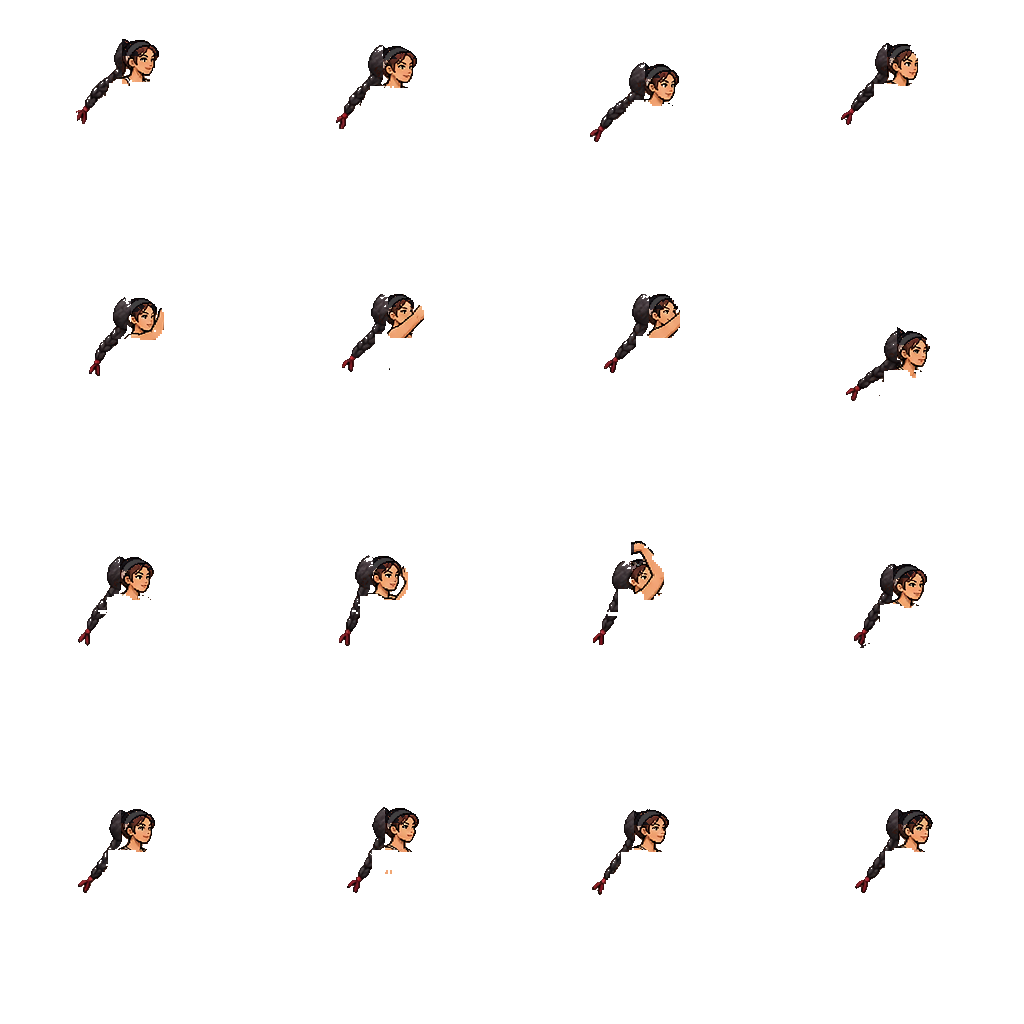
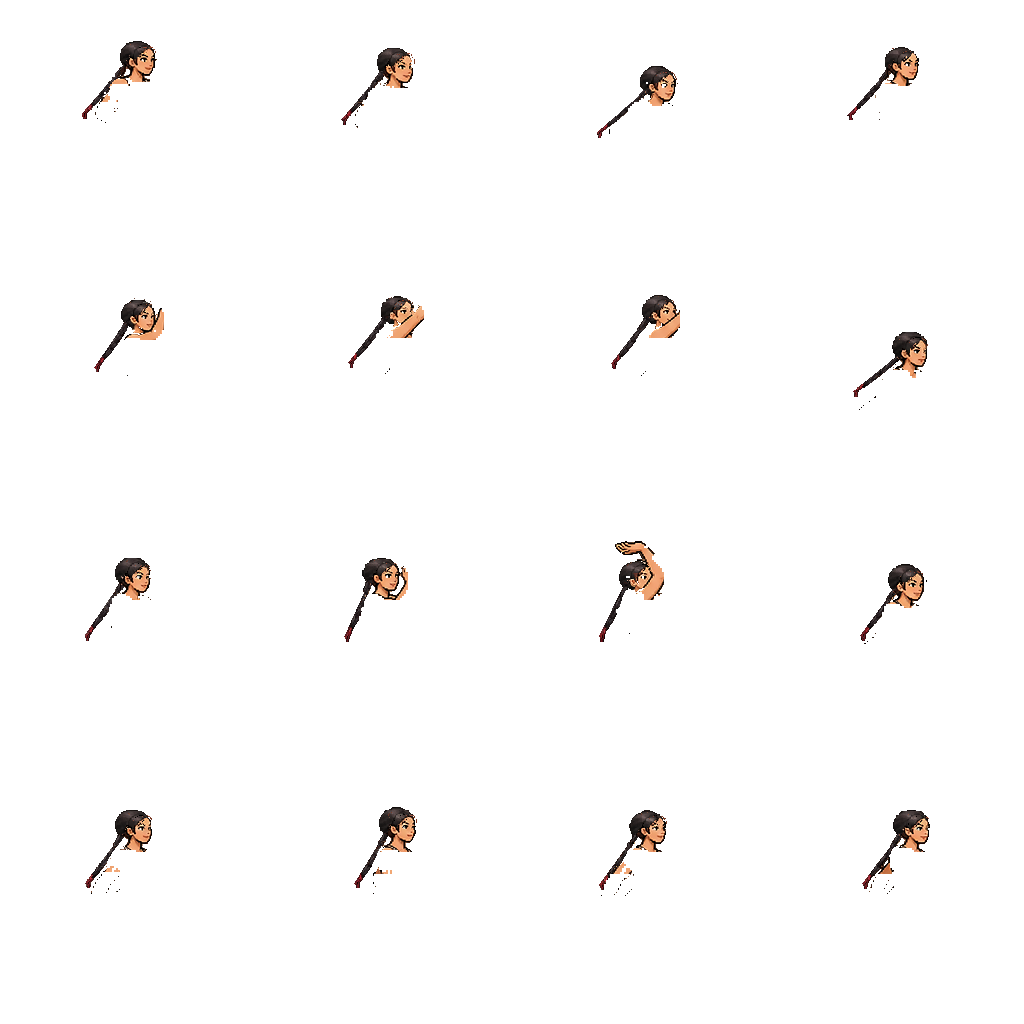
메이의 땋은 머리를 얼굴에 맞추고 착지 레깅스 줄무늬 수정
Publish play build from two-bounce@f5c243d

Claude-Session: https://claude.ai/code/session_0154ntKyVZsr8K9Le1PbzjWH

diff --git a/dev/index.html b/dev/index.html
@@ -19,11 +19,11 @@
 <label>유니폼 <select id="jersey"><option>크림</option><option>블루</option><option>레드</option></select></label>
 <label>헤어밴드 <select id="band"><option>없음</option><option>화이트</option><option>블랙</option><option value="골드" disabled>골드 헤어밴드 · 3연속</option></select></label><label>등번호 <input id="jerseyNumber" inputmode="numeric" maxlength="2" size="2"></label></fieldset>
 <label>난이도 <select id="level"><option value=".45">쉬움 · Lv.1</option><option value=".18">보통 · Lv.3</option><option value=".10">어려움 · Lv.5</option></select></label><label>게이지 방식 <select id="motion"><option value="classic">원샷 · 끝에 닿으면 실패</option><option value="bounce">왕복 · 위아래로 반복</option><option value="dial">원형 · 시계 방향으로 반복</option></select></label>
-<label>게이지 속도 <select id="pace"><option value="classic">기존 속도 · 0.95초</option><option value="auto">단계별 · 1.2초 → 1초</option><option value="slow">느림 · 1.2초</option><option value="normal">보통 · 1초</option><option value="fast">빠름 · 0.75초</option></select><small> 편도 또는 한 바퀴 기준 · 왕복이나 회전을 마칠 때마다 목표 띠가 좁고 흐려져요</small></label><label><input type="checkbox" id="randomBand"> 랜덤 목표 띠</label><label><input type="checkbox" id="promotion"> 10골마다 승급 <small id="promotionHint"></small></label><label><input type="checkbox" id="fadeBand"> 상급 목표 띠 숨기기 <small>Lv.4부터 적용</small></label><button id="sound" aria-pressed="true">소리 켜짐</button><button id="haptic" aria-pressed="true">진동 켜짐</button><button id="back" class="primary">이 설정으로 테스트 플레이</button></section></main><script src="./jun-full.js?v=e7d2609"></script><script src="./seojin-full.js?v=e7d2609"></script><script src="./player-atlas.js?v=e7d2609"></script><script src="./engine-v22.js?v=e7d2609"></script>
-<script src="./lab.js?v=e7d2609"></script>
+<label>게이지 속도 <select id="pace"><option value="classic">기존 속도 · 0.95초</option><option value="auto">단계별 · 1.2초 → 1초</option><option value="slow">느림 · 1.2초</option><option value="normal">보통 · 1초</option><option value="fast">빠름 · 0.75초</option></select><small> 편도 또는 한 바퀴 기준 · 왕복이나 회전을 마칠 때마다 목표 띠가 좁고 흐려져요</small></label><label><input type="checkbox" id="randomBand"> 랜덤 목표 띠</label><label><input type="checkbox" id="promotion"> 10골마다 승급 <small id="promotionHint"></small></label><label><input type="checkbox" id="fadeBand"> 상급 목표 띠 숨기기 <small>Lv.4부터 적용</small></label><button id="sound" aria-pressed="true">소리 켜짐</button><button id="haptic" aria-pressed="true">진동 켜짐</button><button id="back" class="primary">이 설정으로 테스트 플레이</button></section></main><script src="./jun-full.js?v=f5c243d"></script><script src="./seojin-full.js?v=f5c243d"></script><script src="./player-atlas.js?v=f5c243d"></script><script src="./engine-v22.js?v=f5c243d"></script>
+<script src="./lab.js?v=f5c243d"></script>
 <script type="module">
 // One link per registered player: game/players/index.json is the only list.
-import {loadRoster} from '../game/players.js?v=e7d2609';
+import {loadRoster} from '../game/players.js?v=f5c243d';
 const box = document.getElementById('liveLinks');
 for (const [id, spec] of await loadRoster()) {
   const link = document.createElement('a');

diff --git a/dev/shot-review.html b/dev/shot-review.html
@@ -19,11 +19,11 @@ canvas{display:block;image-rendering:pixelated}figure canvas{width:min(100%,128p
 <button id="normal" disabled>실제 속도</button> <button id="slow" disabled>¼배속</button>
 <p id="status" role="status"></p><canvas id="court" aria-label="코트에서 재생한 점프슛"></canvas></main>
 <script type="module">
-import {loadRoster, initialPlayer, costumesOf, outfitArt} from '../game/players.js?v=e7d2609';
-import {loadPlayer} from '../game/player-renderer.js?v=e7d2609';
-import {createRenderer} from '../game/render.js?v=e7d2609';
-import {newMatch, charge, release} from '../game/match.js?v=e7d2609';
-import {scene,rules} from '../game/defaults.js?v=e7d2609';
+import {loadRoster, initialPlayer, costumesOf, outfitArt} from '../game/players.js?v=f5c243d';
+import {loadPlayer} from '../game/player-renderer.js?v=f5c243d';
+import {createRenderer} from '../game/render.js?v=f5c243d';
+import {newMatch, charge, release} from '../game/match.js?v=f5c243d';
+import {scene,rules} from '../game/defaults.js?v=f5c243d';
 
 const el = id => document.getElementById(id);
 const select = el('player'), status = el('status'), court = el('court');

diff --git a/game/main.js b/game/main.js
@@ -1,11 +1,11 @@
-import {scene as baseScene, rules} from './defaults.js?v=e7d2609';
-import {loadRoster, loadPortraits} from './players.js?v=e7d2609';
-import {setupHome} from './home.js?v=e7d2609';
-import {stored} from './storage.js?v=e7d2609';
-import {createPreview} from './preview.js?v=e7d2609';
-import {createRenderer} from './render.js?v=e7d2609';
-import {newMatch, charge, cancelCharge, release, advance} from './match.js?v=e7d2609';
-import {enableAudio, tone, swish} from './audio.js?v=e7d2609';
+import {scene as baseScene, rules} from './defaults.js?v=f5c243d';
+import {loadRoster, loadPortraits} from './players.js?v=f5c243d';
+import {setupHome} from './home.js?v=f5c243d';
+import {stored} from './storage.js?v=f5c243d';
+import {createPreview} from './preview.js?v=f5c243d';
+import {createRenderer} from './render.js?v=f5c243d';
+import {newMatch, charge, cancelCharge, release, advance} from './match.js?v=f5c243d';
+import {enableAudio, tone, swish} from './audio.js?v=f5c243d';
 
 const el = id => document.getElementById(id);
 const home = el('home'), court = el('court'), canvas = el('view'), button = el('shoot');

diff --git a/game/render.js b/game/render.js
@@ -1,10 +1,10 @@
-import {loadPlayer} from './player-renderer.js?v=e7d2609';
-import {createBallSprite} from './art/ball.js?v=e7d2609';
-import {drawCourt} from './art/court.js?v=e7d2609';
-import {createHoopLayer} from './art/hoop.js?v=e7d2609';
+import {loadPlayer} from './player-renderer.js?v=f5c243d';
+import {createBallSprite} from './art/ball.js?v=f5c243d';
+import {drawCourt} from './art/court.js?v=f5c243d';
+import {createHoopLayer} from './art/hoop.js?v=f5c243d';
 
-import {layoutFrame, COURT_SIZE} from './frame.js?v=e7d2609';
-export {hitStop} from './frame.js?v=e7d2609';
+import {layoutFrame, COURT_SIZE} from './frame.js?v=f5c243d';
+export {hitStop} from './frame.js?v=f5c243d';
 
 const {width, height} = COURT_SIZE;
 

diff --git a/game/preview.js b/game/preview.js
@@ -1,8 +1,8 @@
 // Character-select stage: the chosen player, large, idling with the ball and showing their jump shot every few
 // seconds. Switching players plays a short walk-in. It reuses the game's own sprite code, so a new player or
 // outfit appears here with no extra data. Reduced motion shows a still ready pose.
-import {loadPlayer} from './player-renderer.js?v=e7d2609';
-import {createBallSprite} from './art/ball.js?v=e7d2609';
+import {loadPlayer} from './player-renderer.js?v=f5c243d';
+import {createBallSprite} from './art/ball.js?v=f5c243d';
 
 // Room above the head for the highest jumper (35 dots) plus the released ball.
 const W = 240, H = 176, FLOOR = 158, CENTER = 140;

diff --git a/game/home.js b/game/home.js
@@ -1,7 +1,7 @@
 // Home screen: player cards, outfit buttons and the remembered choice. It knows nothing about the match.
-import {initialPlayer, costumesOf, initialCostume, outfitArt, prefetchWardrobe} from './players.js?v=e7d2609';
+import {initialPlayer, costumesOf, initialCostume, outfitArt, prefetchWardrobe} from './players.js?v=f5c243d';
 
-import {stored} from './storage.js?v=e7d2609';
+import {stored} from './storage.js?v=f5c243d';
 
 // A portrait comes from the published portrait sheet when it exists, otherwise from the player's own sheet
 // (url may be a promise: composed outfits are built in the browser first).

diff --git a/game/players.js b/game/players.js
@@ -1,7 +1,7 @@
 // Players are data: game/players/index.json lists them, game/players/<id>/player.json describes each one.
 // Adding a player or an outfit never needs a code change.
-import {asset} from './version.js?v=e7d2609';
-import {composeOutfit, prefetchParts} from './compose.js?v=e7d2609';
+import {asset} from './version.js?v=f5c243d';
+import {composeOutfit, prefetchParts} from './compose.js?v=f5c243d';
 
 const home = new URL('./players/', import.meta.url);
 const forms = new URL('./forms/', import.meta.url);

diff --git a/game/frame.js b/game/frame.js
@@ -1,7 +1,7 @@
 // Where everything is on one frame, as plain data: camera, player pose, ball, shadows, effects.
 // render.js only draws what this returns, so the rules of motion can be tested in Node and a different
 // renderer (PixiJS, a replay exporter) can reuse them unchanged.
-import {makeProjection} from './projection.js?v=e7d2609';
+import {makeProjection} from './projection.js?v=f5c243d';
 
 export const COURT_SIZE = {width: 400, height: 500};
 const mix = (a,b,t) => a + (b-a)*t;

diff --git a/game/defaults.js b/game/defaults.js
@@ -1,6 +1,6 @@
-import {ball} from './art/ball.js?v=e7d2609';
-import {court} from './art/court.js?v=e7d2609';
-import {hoop} from './art/hoop.js?v=e7d2609';
+import {ball} from './art/ball.js?v=f5c243d';
+import {court} from './art/court.js?v=f5c243d';
+import {hoop} from './art/hoop.js?v=f5c243d';
 
 // scene.player is filled in by the home screen (game/players.js).
 export const scene = {player: null, ball, court, hoop,

diff --git a/index.html b/index.html
@@ -64,6 +64,6 @@
       <footer><button id="leave">게임 종료 후 홈으로</button></footer>
     </section>
   </main>
-  <script type="module" src="./game/main.js?v=e7d2609"></script>
+  <script type="module" src="./game/main.js?v=f5c243d"></script>
 </body>
 </html>

diff --git a/game/match.js b/game/match.js
@@ -1,4 +1,4 @@
-import {rules} from './defaults.js?v=e7d2609';
+import {rules} from './defaults.js?v=f5c243d';
 
 const freeThrow = {x:200,y:330};
 const basket = {x:200,y:105};

diff --git a/game/art/ball.js b/game/art/ball.js
@@ -1,4 +1,4 @@
-import {asset} from '../version.js?v=e7d2609';
+import {asset} from '../version.js?v=f5c243d';
 
 export const ball = {
   diameterM: .40,
